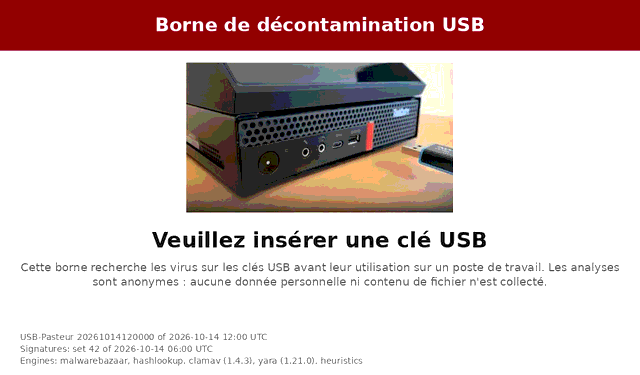
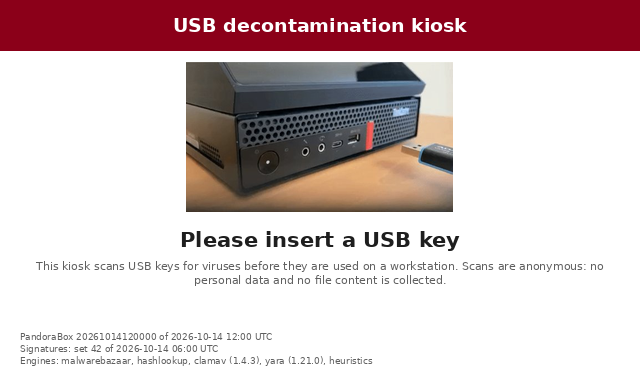
The README screenshots are in English, with French ones for README.fr.md
The sample files of pandora-box-theme preview are named in the language of
the texts.

diff --git a/src/pandora_box/ui/preview.py b/src/pandora_box/ui/preview.py
@@ -14,9 +14,35 @@ from pandora_box.ui.base import Screen
 from pandora_box.ui.screens import REFERENCE, Renderer, ViewState
 from pandora_box.ui.theme import ThemeError, load_theme, theme_languages
 
+# Made-up file names and device label, in French for the French texts and in
+# English for the others
+SAMPLE_NAMES = {
+    "en": {
+        "invoice": "Invoices/invoice-2026-10.pdf.exe",
+        "budget": "Documents/budget.xlsm",
+        "protected": "protected-archive.zip",
+        "invoice_previous": "Invoices/invoice-2026-09.pdf",
+        "photo_1": "Photos/holidays/IMG_2041.jpg",
+        "photo_2": "Photos/holidays/IMG_2040.jpg",
+        "notes": "Meeting notes.docx",
+        "label": "USB-KEY",
+    },
+    "fr": {
+        "invoice": "Factures/facture-2026-10.pdf.exe",
+        "budget": "Documents/budget.xlsm",
+        "protected": "archive-protégée.zip",
+        "invoice_previous": "Factures/facture-2026-09.pdf",
+        "photo_1": "Photos/vacances/IMG_2041.jpg",
+        "photo_2": "Photos/vacances/IMG_2040.jpg",
+        "notes": "Notes de réunion.docx",
+        "label": "CLE-USB",
+    },
+}
 
-def sample_states() -> dict[str, ViewState]:
-    """Every screen, with made-up files."""
+
+def sample_states(language: str = "en") -> dict[str, ViewState]:
+    """Every screen, with made-up files named in the language of the texts."""
+    names = SAMPLE_NAMES.get(language, SAMPLE_NAMES["en"])
 
     def result(path: str, verdict: Verdict, detection: str = "", error: str = "") -> FileResult:
         engine = EngineResult(
@@ -27,19 +53,19 @@ def sample_states() -> dict[str, ViewState]:
         )
 
     threats = (
-        result("Factures/facture-2026-10.pdf.exe", Verdict.MALICIOUS, "Win.Trojan.Agent-1234"),
+        result(names["invoice"], Verdict.MALICIOUS, "Win.Trojan.Agent-1234"),
         result("eicar.com", Verdict.MALICIOUS, "Eicar-Signature"),
-        result("Documents/budget.xlsm", Verdict.SUSPICIOUS, "Heuristics.OLE2.ContainsMacros"),
+        result(names["budget"], Verdict.SUSPICIOUS, "Heuristics.OLE2.ContainsMacros"),
     )
-    unscanned = (result("archive-protégée.zip", Verdict.ERROR, error="Heuristics.Encrypted.Zip"),)
+    unscanned = (result(names["protected"], Verdict.ERROR, error="Heuristics.Encrypted.Zip"),)
     recent = (
         threats[0],
-        result("Factures/facture-2026-09.pdf", Verdict.CLEAN),
-        result("Photos/vacances/IMG_2041.jpg", Verdict.CLEAN),
-        result("Photos/vacances/IMG_2040.jpg", Verdict.CLEAN),
-        result("Notes de réunion.docx", Verdict.CLEAN),
+        result(names["invoice_previous"], Verdict.CLEAN),
+        result(names["photo_1"], Verdict.CLEAN),
+        result(names["photo_2"], Verdict.CLEAN),
+        result(names["notes"], Verdict.CLEAN),
     )
-    device = UsbDevice("/dev/sda1", "vfat", "CLE-USB", "Cruzer Blade", "4C53", "SanDisk")
+    device = UsbDevice("/dev/sda1", "vfat", names["label"], "Cruzer Blade", "4C53", "SanDisk")
     info = (
         "PandoraBox 20261014120000 of 2026-10-14 12:00 UTC",
         "Signatures: set 42 of 2026-10-14 06:00 UTC",
@@ -124,7 +150,7 @@ def main(argv: list[str] | None = None) -> int:
     args.output.mkdir(parents=True, exist_ok=True)
     for theme in themes:
         renderer = Renderer(theme, args.size)
-        for name, state in sample_states().items():
+        for name, state in sample_states(theme.language).items():
             frame = renderer.render(state)
             path = args.output / f"{theme.language}-{name}.png"
             frame.image(0.0).save(path)

diff --git a/tests/test_graphics.py b/tests/test_graphics.py
@@ -202,6 +202,18 @@ def test_scanning_screen() -> None:
     assert frame.image(0.0).tobytes() != frame.image(frame.animation.interval).tobytes()
 
 
+def test_sample_files_follow_the_language() -> None:
+    def names(language: str) -> list[str]:
+        return [f.rel_path for f in sample_states(language)["threats"].files]
+
+    assert names("en")[0] == "Invoices/invoice-2026-10.pdf.exe"
+    assert names("fr")[0] == "Factures/facture-2026-10.pdf.exe"
+    # A language a theme adds gets the English names
+    assert names("de") == names("en")
+    device = sample_states("fr")["scanning"].device
+    assert device is not None and device.label == "CLE-USB"
+
+
 def test_preview(tmp_path: Path, capsys: pytest.CaptureFixture[str]) -> None:
     assert theme_main(["check"]) == 0
     assert "OK (en, fr)" in capsys.readouterr().out

diff --git a/README.fr.md b/README.fr.md
@@ -35,11 +35,11 @@ PandoraBox veut être une alternative **libre, auditable et durcie** aux bornes 
 
 ### ⏳ **Attente d'une clé, analyse en cours**
 
-[<img src="docs/images/interface-ready.png" width="400">](docs/images/interface-ready.png) [<img src="docs/images/interface-scanning.png" width="400">](docs/images/interface-scanning.png)
+[<img src="docs/images/interface-ready.fr.png" width="400">](docs/images/interface-ready.fr.png) [<img src="docs/images/interface-scanning.fr.png" width="400">](docs/images/interface-scanning.fr.png)
 
 ### ☣ **Menaces trouvées, clé nettoyée**
 
-[<img src="docs/images/interface-threats.png" width="400">](docs/images/interface-threats.png) [<img src="docs/images/interface-cleaned.png" width="400">](docs/images/interface-cleaned.png)
+[<img src="docs/images/interface-threats.fr.png" width="400">](docs/images/interface-threats.fr.png) [<img src="docs/images/interface-cleaned.fr.png" width="400">](docs/images/interface-cleaned.fr.png)
 
 ## 🛠 **Technologies**
 
